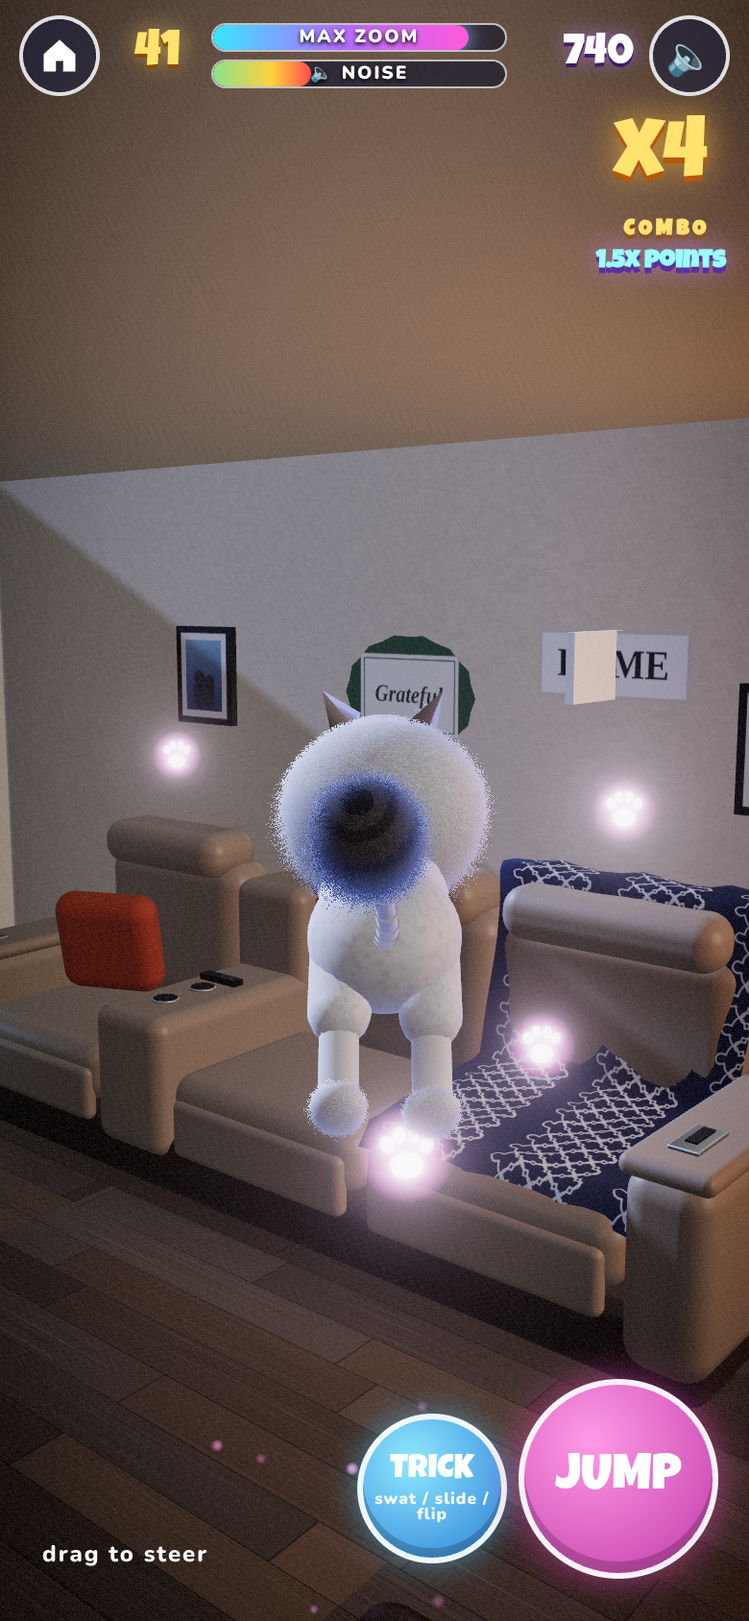
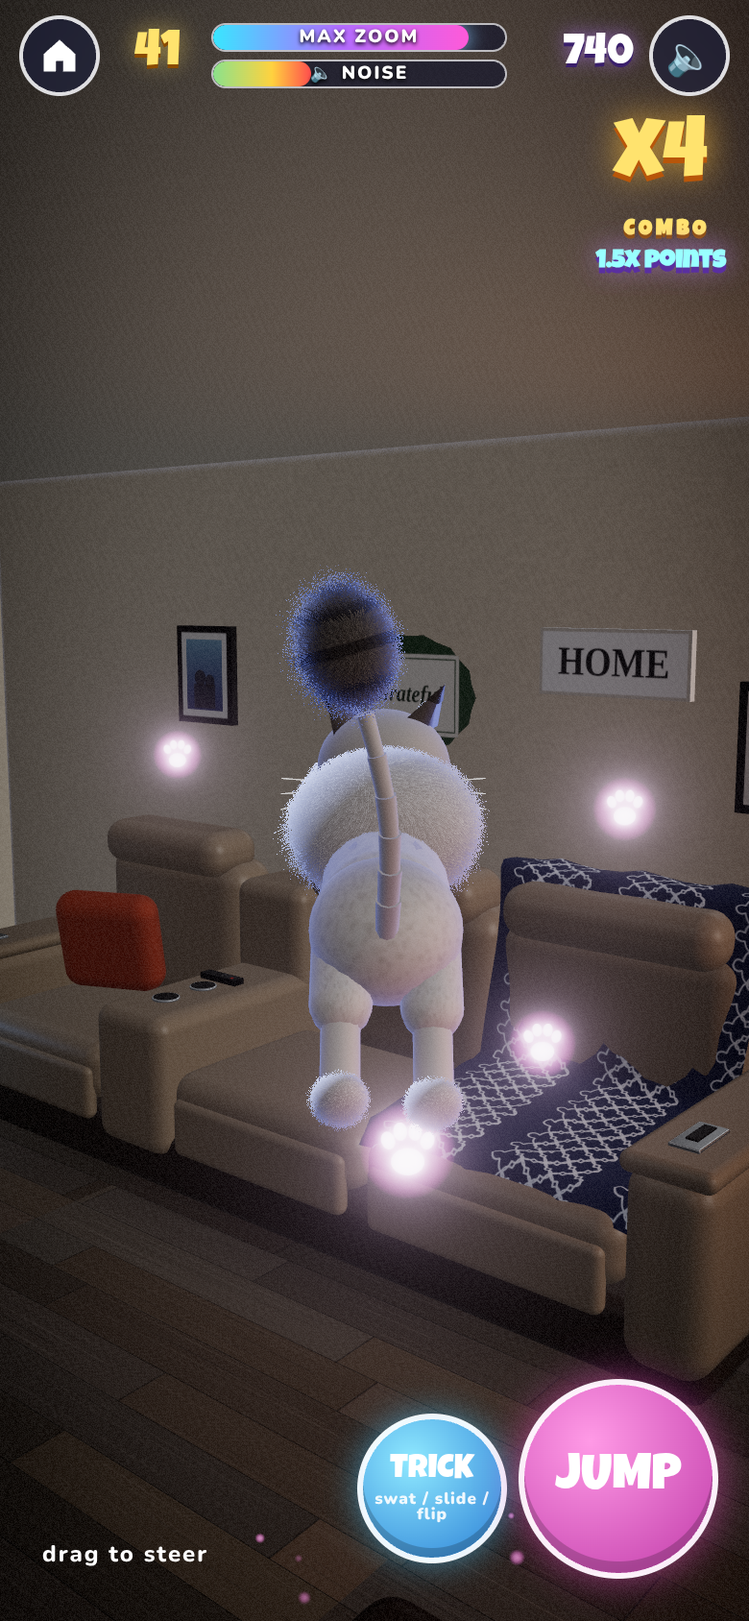
miko: house rebuilt from James's photos (split-level tiled entry, banister, front door, stairs up, TV console wall, picture wall, 3-drum lamp); abstract art only, no people

diff --git a/games/miko/js/house.js b/games/miko/js/house.js
@@ -1,12 +1,12 @@
 // MIKO - the house: living room from the photos (tan leather power recliner couch, navy quatrefoil throw,
-// burnt-orange pillow, olive tree, sage curtains, grey-brown plank floor, GRATEFUL sign), plus a hallway
-// to the bedroom (the human sleeps there) and a kitchen. Also builds the collision boxes the cat runs on.
+// burnt-orange pillow, olive tree, sage curtains, grey-brown plank floor, picture wall), a split-level tiled entry with
+// a banister, front door and stairs up to the bedroom (the human is never shown), and a kitchen. Also builds the collision boxes the cat runs on.
 import * as THREE from 'three';
 import { RoundedBoxGeometry } from 'three/addons/geometries/RoundedBoxGeometry.js';
 import * as TX from './textures.js';
 
-export const H = 2.6;   // ceiling height
-export const BOUNDS = { living: [-3, 3, -3, 3], kitchen: [-6.6, -3, -3, 3], hall: [-2.6, -1.4, 3, 8.6] };
+export const H = 4.6;   // vaulted ceiling height
+export const BOUNDS = { living: [-3, 3, -3, 3], kitchen: [-6.6, -3, -3, 3], entry: [-3, 1.2, 2.8, 9] };
 
 export function buildHouse(scene, quality) {
   const G = new THREE.Group(); G.name = 'house'; scene.add(G);
@@ -27,7 +27,7 @@ export function buildHouse(scene, quality) {
   // ---------------- floor, walls, ceiling ----------------
   const floorMap = TX.woodFloor(); floorMap.repeat.set(9.6 / 1.6, 11.6 / 1.6); floorMap.rotation = Math.PI / 2;
   const floorMat = M({ map: floorMap, roughness: 0.5, metalness: 0.0, envMapIntensity: 0.6 });
-  const floor = add(new THREE.PlaneGeometry(9.6, 11.6), floorMat, -1.8, 0, 2.8, { rx: -Math.PI / 2, cast: false });
+  const floor = add(new THREE.PlaneGeometry(9.6, 12.2), floorMat, -1.8, 0, 3.1, { rx: -Math.PI / 2, cast: false });
   floor.name = 'floor';
   const wallMat = M({ color: 0xece4d5, map: TX.noiseTex(256, '#f4eee4', 10), roughness: 0.92 });
   const ceilMat = M({ color: 0xf0ebe2, roughness: 1 });
@@ -45,15 +45,16 @@ export function buildHouse(scene, quality) {
   wall(-2.4, -0.2, -3 - T, -3, 0, 0.55); wall(-2.4, -0.2, -3 - T, -3, 2.25, H, false);
   wall(-6.6, -3, -3 - T, -3);                                 // kitchen back
   wall(3, 3 + T, -3, 3);                                      // living right (couch wall)
-  wall(-3, -2.6, 3, 3 + T); wall(-1.4, 3, 3, 3 + T);          // living front, hall opening x -2.6..-1.4
-  wall(-2.6, -1.4, 3, 3 + T, 2.2, H, false);                  // header over the hall opening
+  wall(1.2, 3, 3, 3 + T);                                     // living front (lamp + narrow window)
+  wall(1.2, 1.2 + T, 3, 5.0);                                 // entry mirror wall
+  wall(-2.0, 1.2, 5.0, 5.0 + T);                              // front door wall
   wall(-6.6, -3, 3, 3 + T);                                   // kitchen front
   wall(-6.6 - T, -6.6, -3, 3);                                // kitchen far wall
   wall(-3 - T, -3, -3, -1.4); wall(-3 - T, -3, 1.4, 3);       // living/kitchen divider, opening z -1.4..1.4
   wall(-3 - T, -3, -1.4, 1.4, 2.2, H, false);
-  wall(-2.6 - T, -2.6, 3, 8.6); wall(-1.4, -1.4 + T, 3, 8.6); // hallway
-  wall(-2.6, -2.25, 8.6, 8.6 + T); wall(-1.75, -1.4, 8.6, 8.6 + T); wall(-2.25, -1.75, 8.6, 8.6 + T, 2.1, H, false);
-  const ceil = add(new THREE.BoxGeometry(9.8, 0.1, 11.8), ceilMat, -1.8, H + 0.05, 2.8, { cast: true });   // casts, so moonlight only comes in the window
+  wall(-3 - T, -3, 3, 9.0); wall(-2.0, -2.0 + T, 5.0, 9.0);   // stairwell
+  wall(-3, -2.76, 9.0, 9.0 + T); wall(-2.24, -2.0, 9.0, 9.0 + T); wall(-2.76, -2.24, 9.0, 9.0 + T, 4.34, H, false); wall(-2.76, -2.24, 9.0, 9.0 + T, 0, 2.34, false);
+  const ceil = add(new THREE.BoxGeometry(9.8, 0.1, 12.4), ceilMat, -1.8, H + 0.05, 3.1, { cast: true });   // casts, so moonlight only comes in the window
   // "baked" AO: dark gradient strips along the bottoms of the walls and ceiling corners
   const aoTex = TX.vgrad('rgba(0,0,0,0)', 'rgba(0,0,0,0.55)');
   const aoMat = new THREE.MeshBasicMaterial({ map: aoTex, transparent: true, depthWrite: false });
@@ -63,8 +64,8 @@ export function buildHouse(scene, quality) {
     const f = new THREE.Mesh(new THREE.PlaneGeometry(len, 0.4), aoMat);   // on the floor too
     f.rotation.x = -Math.PI / 2; f.rotation.z = Math.atan2(nx, nz) + Math.PI; f.position.set((x0 + x1) / 2 + nx * 0.2, 0.003, (z0 + z1) / 2 + nz * 0.2); f.renderOrder = 2; G.add(f);
   };
-  aoStrip(-3, -3, 3, -3, 0, 1); aoStrip(3, -3, 3, 3, -1, 0); aoStrip(-1.4, 3, 3, 3, 0, -1); aoStrip(-6.6, -3, -3, -3, 0, 1);
-  aoStrip(-6.6, -3, -6.6, 3, 1, 0); aoStrip(-6.6, 3, -3, 3, 0, -1); aoStrip(-2.6, 3, -2.6, 8.6, 1, 0); aoStrip(-1.4, 3, -1.4, 8.6, -1, 0);
+  aoStrip(-3, -3, 3, -3, 0, 1); aoStrip(3, -3, 3, 3, -1, 0); aoStrip(1.2, 3, 3, 3, 0, -1); aoStrip(-6.6, -3, -3, -3, 0, 1);
+  aoStrip(-6.6, -3, -6.6, 3, 1, 0); aoStrip(-6.6, 3, -3, 3, 0, -1); 
   const contact = TX.radial('rgba(0,0,0,.7)', 'rgba(0,0,0,0)');
   const blob = (x, z, w, d, op = 0.8) => { const m = new THREE.Mesh(new THREE.PlaneGeometry(w, d), new THREE.MeshBasicMaterial({ map: contact, transparent: true, depthWrite: false, opacity: op })); m.rotation.x = -Math.PI / 2; m.position.set(x, 0.004, z); m.renderOrder = 2; G.add(m); };
 
@@ -199,94 +200,183 @@ export function buildHouse(scene, quality) {
     G.add(inst);
   }
 
-  // ---------------- ottoman, rug, TV, lamp, bookshelf ----------------
+  // ---------------- ottoman, rug, TV wall, lamp, bookshelf ----------------
   add(rbox(0.75, 0.38, 0.55, 0.07, 4), M({ color: 0x3e2a1e, roughness: 0.45, bumpMap: leatherBump, bumpScale: 0.6 }), 0.38, 0.23, 1.48);
   [[0.06, 1.25], [0.7, 1.25], [0.06, 1.71], [0.7, 1.71]].forEach(([x, z]) => add(new THREE.CylinderGeometry(0.02, 0.015, 0.05, 8), woodDk, x, 0.025, z));
   box(0.0, 0.76, 0, 0.42, 1.2, 1.76, { name: 'ottoman' });
   blob(0.38, 1.48, 1.1, 0.85);
-  add(rbox(2.2, 0.015, 1.6, 0.007), M({ map: TX.rugTex(), color: 0x8a857e, roughness: 1 }), -0.9, 0.008, 0.2, { cast: false });
-  // TV stand + TV (with the standby light)
-  add(rbox(2.2, 0.5, 0.4, 0.02), M({ color: 0x2b2420, roughness: 0.55 }), 0, 0.27, 2.77);
-  [-0.55, 0.55].forEach(x => add(bx(1.0, 0.36, 0.01), M({ color: 0x3a312a, roughness: 0.5 }), x, 0.28, 2.565, { cast: false }));
-  box(-1.1, 1.1, 0, 0.55, 2.57, 2.97, { name: 'TV stand' });
-  add(bx(1.5, 0.86, 0.05), M({ color: 0x0b0b0c, roughness: 0.25, metalness: 0.4 }), 0, 1.35, 2.94);
-  const screen = add(new THREE.PlaneGeometry(1.44, 0.8), M({ color: 0x050608, roughness: 0.08, metalness: 0.2, envMapIntensity: 1.2 }), 0, 1.35, 2.914, { ry: Math.PI, cast: false });
-  box(-0.75, 0.75, 0.92, 1.78, 2.9, 2.97, { name: 'tv', walk: false });
+  // grey/beige area rug in front of the TV
+  add(rbox(2.2, 0.015, 1.5, 0.007), M({ map: TX.rugTex(), color: 0xa49c90, roughness: 1 }), -1.35, 0.008, -1.55, { cast: false });
+  // TV wall (in front of the sage curtains): white console with two glass-door cabinets glowing warm inside
+  const white = M({ color: 0xf1eee8, roughness: 0.5 });
+  add(rbox(1.8, 0.52, 0.42, 0.02), white, -1.35, 0.27, -2.59);
+  const cabGlow = M({ color: 0x2a1c12, emissive: 0xffa04a, emissiveIntensity: 1.4, roughness: 0.6 });
+  const glass = new THREE.MeshPhysicalMaterial({ color: 0xd8e6ee, roughness: 0.05, transparent: true, opacity: 0.25 });
+  const darkWood = M({ color: 0x3b2a1e, roughness: 0.5 });
+  [-1.95, -0.75].forEach(x => {
+    add(bx(0.46, 0.34, 0.01), cabGlow, x, 0.29, -2.385, { cast: false });
+    add(bx(0.5, 0.38, 0.012), glass, x, 0.29, -2.37, { cast: false });
+    [[0, 0.19], [0, -0.19]].forEach(([dx, dy]) => add(bx(0.5, 0.02, 0.02), darkWood, x + dx, 0.29 + dy, -2.365, { cast: false }));
+    [-0.25, 0, 0.25].forEach(dx => add(bx(0.02, 0.38, 0.02), darkWood, x + dx, 0.29, -2.365, { cast: false }));
+  });
+  add(bx(0.62, 0.3, 0.01), cabGlow, -1.35, 0.3, -2.4, { cast: false });
+  box(-2.25, -0.45, 0, 0.55, -2.8, -2.38, { name: 'TV stand' });
+  add(bx(1.32, 0.76, 0.05), M({ color: 0x0b0b0c, roughness: 0.25, metalness: 0.4 }), -1.35, 1.0, -2.66);
+  add(bx(0.3, 0.04, 0.18), M({ color: 0x151515 }), -1.35, 0.57, -2.66);
+  add(bx(0.06, 0.06, 0.04), M({ color: 0x151515 }), -1.35, 0.6, -2.66);
+  add(new THREE.PlaneGeometry(1.26, 0.7), M({ color: 0x050608, roughness: 0.08, metalness: 0.2, envMapIntensity: 1.2 }), -1.35, 1.0, -2.634, { cast: false });
+  box(-2.0, -0.7, 0.6, 1.38, -2.7, -2.62, { name: 'tv', walk: false });
+  add(rbox(0.7, 0.07, 0.09, 0.03), M({ color: 0x151515, roughness: 0.4 }), -1.35, 0.585, -2.48);   // soundbar
   const ledMat = new THREE.MeshBasicMaterial({ color: 0xff2a1a, toneMapped: false });
-  add(new THREE.SphereGeometry(0.008, 8, 6), ledMat, 0.68, 0.93, 2.91, { cast: false }); glow.led = ledMat;
-  blob(0, 2.75, 2.6, 0.8);
-  // candle jar on the stand (prop), soundbar
-  add(rbox(0.9, 0.08, 0.1, 0.03), M({ color: 0x151515, roughness: 0.4 }), 0, 0.56, 2.72);
-  // floor lamp (dim, warm)
-  add(new THREE.CylinderGeometry(0.16, 0.18, 0.025, 24), metalDk, 2.62, 0.013, 2.6);
-  add(new THREE.CylinderGeometry(0.012, 0.012, 1.55, 8), metalDk, 2.62, 0.8, 2.6);
-  const shadeMat = M({ color: 0xf2e6cf, roughness: 1, side: THREE.DoubleSide, emissive: 0xffb36b, emissiveIntensity: 0.5, transparent: true, opacity: 0.96 });
-  add(new THREE.CylinderGeometry(0.2, 0.26, 0.3, 28, 1, true), shadeMat, 2.62, 1.6, 2.6, { cast: false }); glow.shade = shadeMat;
-  box(2.56, 2.68, 0, 1.45, 2.54, 2.66, { name: 'lamp', walk: false });
+  add(new THREE.SphereGeometry(0.007, 8, 6), ledMat, -0.75, 0.63, -2.63, { cast: false }); glow.led = ledMat;
+  add(rbox(0.2, 0.36, 0.2, 0.02), M({ color: 0x18181a, roughness: 0.5 }), -0.3, 0.18, -2.65);   // speaker
+  box(-0.4, -0.2, 0, 0.36, -2.75, -2.55, { name: 'speaker' });
+  blob(-1.35, -2.6, 2.4, 0.8);
+  // tall floor lamp with three stacked drum shades, by the narrow window with blinds
+  add(new THREE.CylinderGeometry(0.15, 0.17, 0.025, 24), metalDk, 2.62, 0.013, 2.6);
+  add(new THREE.CylinderGeometry(0.012, 0.012, 2.0, 8), metalDk, 2.62, 1.0, 2.6);
+  const shadeMat = M({ color: 0xf2ece0, roughness: 1, side: THREE.DoubleSide, emissive: 0xffb36b, emissiveIntensity: 0.5, transparent: true, opacity: 0.96 });
+  [[2.5, 1.2, 2.5], [2.72, 1.55, 2.62], [2.52, 1.9, 2.66]].forEach(([x, y, z]) => {
+    add(new THREE.CylinderGeometry(0.16, 0.16, 0.22, 28, 1, true), shadeMat, x, y, z, { cast: false });
+    add(new THREE.CylinderGeometry(0.004, 0.004, 0.22, 4), metalDk, (x + 2.62) / 2, y + 0.16, (z + 2.6) / 2, { rz: (2.62 - x) * 2, cast: false });
+  });
+  glow.shade = shadeMat;
+  box(2.56, 2.68, 0, 1.9, 2.54, 2.66, { name: 'lamp', walk: false });
+  const blindsTex = TX.textCanvas(64, 256, (g, w, h) => { g.fillStyle = '#f6f4ef'; g.fillRect(0, 0, w, h); for (let y = 0; y < h; y += 8) { g.fillStyle = 'rgba(0,0,0,.14)'; g.fillRect(0, y, w, 2); } });
+  const blinds = (x, y, z, w, h, ry) => { add(new THREE.PlaneGeometry(w, h), M({ map: blindsTex, roughness: 0.7 }), x, y, z, { ry, cast: false }); add(bx(w + 0.06, 0.07, 0.06), white, x, y + h / 2 + 0.03, z, { ry, cast: false }); };
+  blinds(2.15, 1.55, 2.985, 0.4, 1.3, Math.PI);
   // bookshelf
   const shelfMat = M({ color: 0xf2efe8, roughness: 0.6 });
-  add(bx(0.34, 1.8, 1.05), shelfMat, -2.79, 0.9, 2.2);
+  add(bx(0.34, 1.8, 0.9), shelfMat, -2.79, 0.9, 1.9);
   const bookColors = [0x6c2f2a, 0x2e4a6b, 0xd9b45a, 0x3e5d43, 0x8a6b8f, 0xc77b4d, 0x24313d, 0xe7dccb];
   for (let s = 0; s < 4; s++) {
-    let z = 1.72; const y = 0.1 + s * 0.43;
-    add(bx(0.32, 0.02, 1.0), shelfMat, -2.77, y, 2.2, { cast: false });
-    while (z < 2.62) {
+    let z = 1.48; const y = 0.1 + s * 0.43;
+    add(bx(0.32, 0.02, 0.86), shelfMat, -2.77, y, 1.9, { cast: false });
+    while (z < 2.28) {
       const w = 0.025 + Math.random() * 0.03, h = 0.22 + Math.random() * 0.12;
       if (Math.random() < 0.12) { z += 0.08; continue; }
       add(bx(0.22, h, w), M({ color: bookColors[(Math.random() * bookColors.length) | 0], roughness: 0.8 }), -2.73, y + 0.01 + h / 2, z + w / 2, { cast: false });
       z += w + 0.004;
     }
   }
-  box(-2.97, -2.62, 0, 1.8, 1.67, 2.73, { name: 'bookshelf top' });
-  blob(-2.75, 2.2, 0.7, 1.4);
+  box(-2.97, -2.62, 0, 1.8, 1.45, 2.35, { name: 'bookshelf top' });
+  blob(-2.75, 1.9, 0.7, 1.2);
 
-  // ---------------- wall art: GRATEFUL, HOME, photo frames ----------------
-  const grateful = TX.textCanvas(512, 384, (g, w, h) => {
-    g.fillStyle = '#4b6b4a'; const r = 40;
-    g.beginPath(); for (let i = 0; i < 28; i++) { const a = i / 28 * Math.PI * 2; const rr = 1 + Math.sin(i * Math.PI) * 0; g.lineTo(w / 2 + Math.cos(a) * (w / 2 - 8) * (1 - 0.04 * (i % 2)), h / 2 + Math.sin(a) * (h / 2 - 8) * (1 - 0.04 * (i % 2))); } g.closePath(); g.fill();
-    g.fillStyle = '#f4efe2'; g.fillRect(70, 70, w - 140, h - 140);
-    g.strokeStyle = '#4b6b4a'; g.lineWidth = 4; g.strokeRect(84, 84, w - 168, h - 168);
+  // ---------------- picture wall above the couch (frames show abstract art only) ----------------
+  const artMat = (t) => M({ map: t, roughness: 0.7, transparent: true, alphaTest: 0.5 });
+  const sign = (w, h, draw) => TX.textCanvas(w, h, draw);
+  const hang = (tex, z, y, w, h, depth = 0.025) => { add(bx(depth, h, w), M({ color: 0x2a2622 }), 2.99 - depth / 2, y, z, { cast: false }); add(new THREE.PlaneGeometry(w, h), artMat(tex), 2.99 - depth - 0.001, y, z, { ry: -Math.PI / 2, cast: false }); };
+  const grateful = sign(512, 384, (g, w, h) => {
+    g.fillStyle = '#4b6b4a';
+    g.beginPath(); for (let i = 0; i < 28; i++) { const a = i / 28 * Math.PI * 2; g.lineTo(w / 2 + Math.cos(a) * (w / 2 - 8) * (1 - 0.04 * (i % 2)), h / 2 + Math.sin(a) * (h / 2 - 8) * (1 - 0.04 * (i % 2))); } g.closePath(); g.fill();
+    g.fillStyle = '#f4efe2'; g.fillRect(70, 70, w - 140, h - 140); g.strokeStyle = '#4b6b4a'; g.lineWidth = 4; g.strokeRect(84, 84, w - 168, h - 168);
     g.fillStyle = '#3c4f3b'; g.font = 'italic 700 74px Georgia, serif'; g.textAlign = 'center'; g.textBaseline = 'middle'; g.fillText('Grateful', w / 2, h / 2 + 4);
   });
-  const artMat = (t) => M({ map: t, roughness: 0.7, transparent: true, alphaTest: 0.5 });
-  add(new THREE.PlaneGeometry(0.62, 0.46), artMat(grateful), 2.985, 1.72, -0.5, { ry: -Math.PI / 2, cast: false });
-  const home = TX.textCanvas(512, 200, (g, w, h) => { g.fillStyle = '#f8f6f1'; g.fillRect(0, 0, w, h); g.strokeStyle = '#d9d2c4'; g.lineWidth = 10; g.strokeRect(5, 5, w - 10, h - 10); g.fillStyle = '#2b2b2b'; g.font = '900 120px Georgia, serif'; g.textAlign = 'center'; g.textBaseline = 'middle'; g.fillText('HOME', w / 2, h / 2 + 6); });
-  add(bx(0.03, 0.22, 0.55), M({ color: 0xf8f6f1 }), 2.98, 1.86, 0.35, { cast: false });
-  add(new THREE.PlaneGeometry(0.55, 0.22), artMat(home), 2.962, 1.86, 0.35, { ry: -Math.PI / 2, cast: false });
-  const photo = (seedHue) => TX.textCanvas(256, 320, (g, w, h) => {
+  add(new THREE.PlaneGeometry(0.32, 0.24), artMat(grateful), 2.985, 1.98, -1.42, { ry: -Math.PI / 2, cast: false });
+  const family = sign(512, 160, (g, w, h) => { g.fillStyle = '#8c8f92'; g.fillRect(0, 0, w, h); g.fillStyle = '#ece9e2'; g.fillRect(14, 14, w - 28, h - 28); g.fillStyle = '#2b2b2b'; g.font = 'italic 700 96px Georgia, serif'; g.textAlign = 'center'; g.textBaseline = 'middle'; g.fillText('Family', w / 2, h / 2 + 6); });
+  hang(family, -1.55, 2.48, 0.5, 0.16);
+  const beHappy = sign(320, 440, (g, w, h) => { g.fillStyle = '#e2b62e'; g.fillRect(0, 0, w, h); g.fillStyle = '#1f2321'; g.fillRect(22, 22, w - 44, h - 44); g.textAlign = 'center'; g.font = '700 58px "Arial Rounded MT Bold", sans-serif';
+    g.fillStyle = '#f2efe6'; g.fillText('BE HAPPY', w / 2, 120); g.fillStyle = '#f7d54a'; g.fillText('BE BRIGHT', w / 2, 210); g.fillStyle = '#f2efe6'; g.fillText('BE', w / 2 - 50, 320); g.fillStyle = '#7fc8f0'; g.fillText('YOU', w / 2 + 40, 320); });
+  hang(beHappy, -0.4, 2.3, 0.32, 0.44);
+  const moon = sign(240, 300, (g, w, h) => { g.fillStyle = '#f8f6f1'; g.fillRect(0, 0, w, h); g.strokeStyle = '#2b2b2b'; g.lineWidth = 6; g.strokeRect(6, 6, w - 12, h - 12); g.fillStyle = '#2b2b2b'; g.textAlign = 'center'; g.font = '800 40px Georgia, serif';
+    ['LOVE YOU', 'TO THE', 'MOON', '& BACK'].forEach((t, i) => g.fillText(t, w / 2, 70 + i * 60)); });
+  hang(moon, -0.78, 1.92, 0.22, 0.28);
+  const home = sign(200, 260, (g, w, h) => { g.fillStyle = '#f8f6f1'; g.fillRect(0, 0, w, h); g.fillStyle = '#6a6a6a'; g.font = 'italic 30px Georgia, serif'; g.textAlign = 'center'; g.fillText('my happy place', w / 2, 70); g.fillStyle = '#2b2b2b'; g.font = '900 64px Georgia, serif'; g.fillText('HOME', w / 2, 170); });
+  hang(home, -1.08, 1.95, 0.2, 0.26);
+  const days = sign(400, 140, (g, w, h) => { g.fillStyle = '#c9a77a'; g.fillRect(0, 0, w, h); g.fillStyle = '#3b2a1e'; g.font = 'italic 700 46px Georgia, serif'; g.textAlign = 'center'; g.textBaseline = 'middle'; g.fillText('Days to Remember', w / 2, h / 2); });
+  hang(days, 0.12, 1.86, 0.38, 0.12, 0.015);
+  for (let i = 0; i < 7; i++) add(new THREE.CylinderGeometry(0.014, 0.014, 0.004, 10), M({ color: 0xd8b98c }), 2.975, 1.74 - (i % 2) * 0.04, -0.03 + i * 0.05, { rz: Math.PI / 2, cast: false });
+  const photo = (seedHue) => TX.textCanvas(256, 320, (g, w, h) => {   // abstract art (no people)
     g.fillStyle = '#1e1a17'; g.fillRect(0, 0, w, h); g.fillStyle = '#f3efe7'; g.fillRect(22, 22, w - 44, h - 44);
-    const gr = g.createLinearGradient(0, 40, 0, h - 40); gr.addColorStop(0, `hsl(${seedHue},35%,70%)`); gr.addColorStop(1, `hsl(${seedHue + 30},30%,40%)`);
+    const gr = g.createLinearGradient(0, 40, 0, h - 40); gr.addColorStop(0, `hsl(${seedHue},45%,78%)`); gr.addColorStop(1, `hsl(${seedHue + 40},35%,55%)`);
     g.fillStyle = gr; g.fillRect(44, 44, w - 88, h - 88);
-    g.fillStyle = 'rgba(40,30,25,.55)'; g.beginPath(); g.arc(w / 2 - 20, h / 2 + 10, 26, 0, 7); g.fill(); g.beginPath(); g.arc(w / 2 + 26, h / 2 + 20, 22, 0, 7); g.fill();
-    g.fillRect(w / 2 - 50, h / 2 + 30, 100, 80);
+    g.fillStyle = `hsl(${seedHue + 180},40%,85%)`; g.beginPath(); g.arc(w * 0.66, h * 0.35, 22, 0, 7); g.fill();
+    g.fillStyle = `hsl(${seedHue + 60},30%,35%)`; g.beginPath(); g.moveTo(44, h - 44); g.quadraticCurveTo(w * 0.4, h * 0.5, w - 44, h * 0.66); g.lineTo(w - 44, h - 44); g.fill();
   });
-  [[2.985, 1.75, -1.55, 200], [2.985, 1.62, 0.95, 30]].forEach(([x, y, z, hu]) => {
-    add(bx(0.03, 0.4, 0.32), M({ color: 0x1e1a17 }), x - 0.01, y, z, { cast: false });
-    add(new THREE.PlaneGeometry(0.32, 0.4), artMat(photo(hu)), x - 0.027, y, z, { ry: -Math.PI / 2, cast: false });
-  });
+  [[-0.95, 2.42, 0.3, 0.36, 40], [0.22, 2.27, 0.32, 0.28, 200], [-1.82, 2.05, 0.15, 0.2, 120], [-0.4, 1.86, 0.2, 0.2, 300]].forEach(([z, y, w, h, hu]) => hang(photo(hu), z, y, w, h));
   [[0.3, 1.7, -2.985, 120], [1.25, 1.85, -2.985, 300]].forEach(([x, y, z, hu]) => add(new THREE.PlaneGeometry(0.3, 0.38), artMat(photo(hu)), x, y, z + 0.01, { cast: false }));
-  [[-2.585, 1.5, 4.6, 60], [-1.415, 1.55, 6.2, 260], [-2.585, 1.5, 7.4, 180]].forEach(([x, y, z, hu]) => add(new THREE.PlaneGeometry(0.34, 0.42), artMat(photo(hu)), x + (x < -2 ? 0.01 : -0.01), y, z, { ry: x < -2 ? Math.PI / 2 : -Math.PI / 2, cast: false }));
 
-  // ---------------- hallway + bedroom door ----------------
-  add(rbox(1.0, 0.012, 4.2, 0.006), M({ color: 0x5c4a5e, roughness: 1, map: TX.rugTex() }), -2.0, 0.006, 5.9, { cast: false });
-  add(rbox(0.36, 0.08, 1.2, 0.02), woodDk, -2.37, 0.44, 5.1);
-  [[-2.5, 4.6], [-2.24, 4.6], [-2.5, 5.6], [-2.24, 5.6]].forEach(([x, z]) => add(bx(0.03, 0.4, 0.03), metalDk, x, 0.2, z));
-  box(-2.56, -2.18, 0.4, 0.48, 4.5, 5.7, { name: 'hall bench' });
-  add(rbox(0.32, 0.8, 1.0, 0.02), M({ color: 0xe8e2d6, roughness: 0.6 }), -1.6, 0.4, 6.8);
-  box(-1.77, -1.43, 0, 0.8, 6.3, 7.3, { name: 'hall console' });
-  blob(-1.6, 6.8, 0.6, 1.3);
-  // bedroom door (opens when the human wakes up)
-  const doorPivot = new THREE.Group(); doorPivot.position.set(-2.24, 0, 8.6); G.add(doorPivot);
-  const door = add(bx(0.48, 2.06, 0.04), M({ color: 0xf3efe7, roughness: 0.5 }), 0.24, 1.03, 0, { parent: doorPivot });
-  add(new THREE.SphereGeometry(0.022, 10, 8), chrome, 0.42, 1.0, -0.04, { parent: doorPivot });
-  add(bx(0.58, 0.05, 0.06), frameMat, -2.0, 2.1, 8.58);
+  // ---------------- split-level entry: diagonal tile landing, steps down, banister, front door, stairs up ----------------
+  const tileTex = TX.textCanvas(512, 512, (g, w, h) => {
+    g.fillStyle = '#5a4234'; g.fillRect(0, 0, w, h);
+    g.save(); g.translate(w / 2, h / 2); g.rotate(Math.PI / 4); const s = 128;
+    for (let y = -6; y < 6; y++) for (let x = -6; x < 6; x++) { const l = 36 + Math.random() * 8; g.fillStyle = `hsl(${18 + Math.random() * 6},${30 + Math.random() * 8}%,${l}%)`; g.fillRect(x * s + 3, y * s + 3, s - 6, s - 6); }
+    g.restore();
+  });
+  tileTex.wrapS = tileTex.wrapT = THREE.RepeatWrapping; tileTex.repeat.set(2.4, 1.3);
+  const tileMat = M({ map: tileTex, roughness: 0.35, envMapIntensity: 0.8 });
+  const landingTopMat = [M({ color: 0x5a4234 }), M({ color: 0x5a4234 }), tileMat, M({ color: 0x5a4234 }), M({ color: 0x6b5040 }), M({ color: 0x6b5040 })];
+  add(bx(4.2, 0.54, 2.2), landingTopMat, -0.9, 0.27, 3.9);
+  box(-3, 1.2, 0, 0.54, 2.8, 5.0, { name: 'entry landing' });
+  // wide tiled steps down into the living room (tile treads with wood nosing)
+  [[0.18, 2.4], [0.36, 2.6]].forEach(([top, z0]) => {
+    add(bx(2.6, top, 0.2), M({ color: 0x6b4c3b, roughness: 0.4, map: tileTex }), -1.7, top / 2, z0 + 0.1);
+    add(bx(2.6, 0.025, 0.03), darkWood, -1.7, top - 0.012, z0 + 0.012, { cast: false });
+    box(-3, -0.4, 0, top, z0, z0 + 0.2, { name: 'step' });
+  });
+  add(bx(2.6, 0.025, 0.03), darkWood, -1.7, 0.54 - 0.012, 2.812, { cast: false });
+  // white spindle banister with a dark wood top rail along the landing edge (Miko can run along the rail)
+  const spN = 16, sp = new THREE.InstancedMesh(new THREE.BoxGeometry(0.03, 0.78, 0.03), white, spN); sp.castShadow = true;
+  const o3 = new THREE.Object3D(); for (let i = 0; i < spN; i++) { o3.position.set(-0.36 + i * 0.1, 0.54 + 0.39, 2.86); o3.updateMatrix(); sp.setMatrixAt(i, o3.matrix); } G.add(sp);
+  add(rbox(1.62, 0.07, 0.09, 0.02), darkWood, 0.4, 1.355, 2.86);
+  add(bx(0.09, 0.9, 0.09), white, -0.4, 0.99, 2.86); add(bx(0.09, 0.9, 0.09), white, 1.18, 0.99, 2.86);
+  box(-0.44, 1.22, 1.32, 1.39, 2.81, 2.91, { name: 'banister rail' });
+  box(-0.44, 1.22, 0.54, 1.32, 2.83, 2.89, { name: 'banister', walk: false });
+  // front door wall: dark 6-panel door, transom window, narrow window with blinds, plant in a grey pot
+  const doorWood = M({ color: 0x4a3324, roughness: 0.55 });
+  add(bx(0.92, 2.05, 0.05), doorWood, -0.75, 0.54 + 1.025, 4.97);
+  [[0.62], [1.2], [1.78]].forEach(([y]) => [-0.2, 0.2].forEach(dx => add(rbox(0.3, 0.42, 0.02, 0.01), M({ color: 0x5a3f2c, roughness: 0.5 }), -0.75 + dx, 0.54 + y, 4.94, { cast: false })));
+  add(new THREE.SphereGeometry(0.025, 10, 8), M({ color: 0x2a2a2a, metalness: 0.8, roughness: 0.3 }), -0.38, 0.54 + 1.0, 4.93);
+  add(bx(1.1, 0.4, 0.02), M({ color: 0x9fb2c4, emissive: 0x23304a, emissiveIntensity: 1, roughness: 0.1 }), -0.75, 2.95, 4.985, { cast: false });
+  add(bx(1.16, 0.46, 0.03), white, -0.75, 2.95, 4.99, { cast: false });
+  blinds(0.15, 1.6, 4.985, 0.36, 1.5, Math.PI);
+  add(new THREE.CylinderGeometry(0.17, 0.13, 0.34, 20), M({ color: 0x8c9294, roughness: 0.5 }), 0.75, 0.71, 4.65);
+  box(0.58, 0.92, 0.54, 0.88, 4.48, 4.82, { name: 'plant pot' });
+  for (let i = 0; i < 9; i++) { const st = add(new THREE.CylinderGeometry(0.006, 0.008, 0.6 + Math.random() * 0.4, 5), M({ color: 0x5b6b3a }), 0.75 + (Math.random() - 0.5) * 0.12, 1.2, 4.65 + (Math.random() - 0.5) * 0.12, { rz: (Math.random() - 0.5) * 0.4, rx: (Math.random() - 0.5) * 0.4 });
+    for (let j = 0; j < 3; j++) add(new THREE.SphereGeometry(0.05, 8, 6), M({ color: 0x4f7a3a, roughness: 0.7 }), st.position.x + (Math.random() - 0.5) * 0.2, 1.1 + Math.random() * 0.5, st.position.z + (Math.random() - 0.5) * 0.2, { cast: false }).scale.set(1, 0.25, 1.8); }
+  // mirror wall: long black-framed mirror, coat hooks with ball caps and a little Halloween witch doll
+  add(bx(0.03, 0.26, 0.85), M({ color: 0x111111 }), 1.185, 1.95, 3.9);
+  add(bx(0.01, 0.2, 0.77), M({ color: 0x9aa4ad, metalness: 1, roughness: 0.05 }), 1.168, 1.95, 3.9, { cast: false });
+  [[3.6, 0x2f4f7a], [4.05, 0x3a3a3a], [4.25, 0xc9c4ba]].forEach(([z, c]) => { const cap = add(new THREE.SphereGeometry(0.06, 14, 10, 0, Math.PI * 2, 0, Math.PI / 2), M({ color: c, roughness: 0.8 }), 1.13, 1.72, z, { rz: Math.PI / 2 }); });
+  { const dz = 3.83, x = 1.13;
+    add(new THREE.ConeGeometry(0.035, 0.08, 12), M({ color: 0x1a1a1a }), x, 1.74, dz);
+    add(new THREE.CylinderGeometry(0.05, 0.05, 0.005, 14), M({ color: 0x1a1a1a }), x, 1.7, dz);
+    add(new THREE.SphereGeometry(0.022, 10, 8), M({ color: 0xf2a65a }), x, 1.67, dz);
+    add(new THREE.CylinderGeometry(0.025, 0.035, 0.08, 10), M({ color: 0x1a1a1a }), x, 1.6, dz);
+    const stripes = TX.textCanvas(16, 64, (g) => { for (let i = 0; i < 8; i++) { g.fillStyle = i % 2 ? '#111' : '#f07f1e'; g.fillRect(0, i * 8, 16, 8); } });
+    [-0.014, 0.014].forEach(o => add(new THREE.CylinderGeometry(0.008, 0.008, 0.12, 8), M({ map: stripes }), x, 1.5, dz + o, { cast: false })); }
+  // wrought-iron chandelier with cream glass shades (off at 3 AM)
+  { const iron = M({ color: 0x151312, metalness: 0.6, roughness: 0.5 }), cx = -0.9, cz = 3.95, cy = 3.2;
+    add(new THREE.CylinderGeometry(0.006, 0.006, H - cy, 6), iron, cx, (H + cy) / 2, cz, { cast: false });
+    const shadeG = M({ color: 0xf1e3c4, roughness: 0.6, emissive: 0xffd08a, emissiveIntensity: 0.05 });
+    for (let i = 0; i < 5; i++) { const a = i / 5 * Math.PI * 2;
+      add(new THREE.TorusGeometry(0.11, 0.008, 6, 16, Math.PI), iron, cx + Math.cos(a) * 0.12, cy, cz + Math.sin(a) * 0.12, { ry: -a, cast: false });
+      add(new THREE.CylinderGeometry(0.035, 0.055, 0.08, 12, 1, true), shadeG, cx + Math.cos(a) * 0.23, cy + 0.06, cz + Math.sin(a) * 0.23, { cast: false }); } }
+  // carpeted stairs UP (beige speckled carpet, wood handrail on the wall) to the upper landing + bedroom door
+  const carpet = M({ map: TX.noiseTex(128, '#b9a88f', 70), roughness: 1 });
+  for (let i = 0; i < 10; i++) {
+    const z0 = 5.0 + i * 0.28, top = 0.54 + (i + 1) * 0.18;
+    add(bx(1.0, 0.18, 0.28), carpet, -2.5, top - 0.09, z0 + 0.14);
+    add(bx(1.0, top - 0.18, 0.28), M({ color: 0xece5d8 }), -2.5, (top - 0.18) / 2, z0 + 0.14, { cast: false });
+    box(-3, -2.0, 0, top, z0, z0 + 0.28, { name: 'stairs' });
+  }
+  add(bx(1.0, 0.1, 1.2), carpet, -2.5, 2.29, 8.4); add(bx(1.0, 2.24, 1.2), M({ color: 0xece5d8 }), -2.5, 1.12, 8.4, { cast: false });
+  box(-3, -2.0, 0, 2.34, 7.8, 9.0, { name: 'upper landing' });
+  { const len = Math.hypot(2.8, 1.8), rail = add(new THREE.CylinderGeometry(0.02, 0.02, len, 8), darkWood, -2.95, 0.54 + 0.9 + 0.9, 6.4, { cast: false }); rail.rotation.x = Math.atan2(2.8, 1.8); }
+  // bedroom door at the top of the stairs (its light flicks on when the human wakes up - off screen)
+  const DY = 2.34;
+  const doorPivot = new THREE.Group(); doorPivot.position.set(-2.74, DY, 8.99); G.add(doorPivot);
+  add(bx(0.48, 1.96, 0.04), M({ color: 0xf3efe7, roughness: 0.5 }), 0.24, 0.98, 0, { parent: doorPivot });
+  add(new THREE.SphereGeometry(0.022, 10, 8), chrome, 0.42, 0.95, -0.04, { parent: doorPivot });
+  add(bx(0.58, 0.05, 0.06), frameMat, -2.5, DY + 2.0, 8.97);
   const roomLight = new THREE.MeshBasicMaterial({ color: 0xffc27a, toneMapped: false });
-  const roomGlow = add(new THREE.PlaneGeometry(0.5, 2.08), roomLight, -2.0, 1.04, 8.75, { ry: Math.PI, cast: false, recv: false });
+  const roomGlow = add(new THREE.PlaneGeometry(0.5, 1.98), roomLight, -2.5, DY + 0.99, 9.12, { ry: Math.PI, cast: false, recv: false });
   roomGlow.visible = false;
   const crack = new THREE.MeshBasicMaterial({ color: 0xffc27a, toneMapped: false, transparent: true, opacity: 0 });
-  add(new THREE.PlaneGeometry(0.5, 0.025), crack, -2.0, 0.012, 8.57, { rx: -Math.PI / 2 + 0.0, cast: false, recv: false });
+  add(new THREE.PlaneGeometry(0.5, 0.025), crack, -2.5, DY + 0.012, 8.96, { rx: -Math.PI / 2, cast: false, recv: false });
   glow.door = { pivot: doorPivot, roomGlow, crack };
-  box(-2.25, -1.75, 0, 2.1, 8.5, 8.62, { name: 'door', type: 'wall', walk: false });
+  box(-2.76, -2.24, DY, DY + 2.0, 8.9, 9.02, { name: 'door', type: 'wall', walk: false });
+
 
   // ---------------- kitchen ----------------
   const cabMat = M({ color: 0xefe9de, roughness: 0.55 }), topMat = M({ map: TX.quartz(), roughness: 0.25, envMapIntensity: 1.0 });
@@ -329,10 +419,10 @@ export function buildHouse(scene, quality) {
   props.push({ kind: 'mug', pos: [-4.4, 0.92, 0.45], color: 0x2e5a87 });
   props.push({ kind: 'glass', pos: [-4.6, 0.92, -0.4] });
   props.push({ kind: 'orange', pos: [-6.18, 0.95, 0.6] }, { kind: 'orange', pos: [-6.12, 0.95, 0.72] }, { kind: 'orange', pos: [-6.25, 0.95, 0.75] });
-  props.push({ kind: 'candle', pos: [0.75, 0.55, 2.74] });
-  props.push({ kind: 'book', pos: [-2.78, 1.8, 2.3] });
-  props.push({ kind: 'keys', pos: [-1.6, 0.8, 6.6] });
-  props.push({ kind: 'vase', pos: [-1.6, 0.8, 7.05] });
+  props.push({ kind: 'candle', pos: [-0.62, 0.55, -2.5] });
+  props.push({ kind: 'vase', pos: [-2.1, 0.55, -2.5] });
+  props.push({ kind: 'book', pos: [-2.78, 1.8, 1.95] });
+  props.push({ kind: 'keys', pos: [-2.45, 2.34, 8.3] });
   props.push({ kind: 'tumbler', pos: [-6.2, 0.92, 1.3], mat: M({ color: 0xe7a0b6, metalness: 0.3, roughness: 0.35 }) });
 
   // ---------------- lights ----------------
@@ -341,14 +431,14 @@ export function buildHouse(scene, quality) {
   L.moon = new THREE.DirectionalLight(0xa9c0ff, 2.4);
   L.moon.position.set(-2.2, 5.2, -9.5); L.moon.target.position.set(-1.0, 0, 0.5); scene.add(L.moon); scene.add(L.moon.target);
   L.moon.castShadow = true; L.moon.shadow.bias = -0.0004; L.moon.shadow.normalBias = 0.02; L.moon.shadow.radius = 4; L.moon.shadow.blurSamples = 12;
-  const sc = L.moon.shadow.camera; sc.left = -6; sc.right = 6; sc.top = 7; sc.bottom = -7; sc.near = 1; sc.far = 25;
+  const sc = L.moon.shadow.camera; sc.left = -8; sc.right = 8; sc.top = 9; sc.bottom = -9; sc.far = 30; sc.near = 1; sc.far = 25;
   L.lamp = new THREE.PointLight(0xffa860, 1.3, 4.5, 1.8); L.lamp.position.set(2.62, 1.55, 2.6); scene.add(L.lamp);
   L.tv = new THREE.PointLight(0xff3020, 0.9, 2.2, 2); L.tv.position.set(0.68, 0.9, 2.8); scene.add(L.tv);
   L.phone = new THREE.PointLight(0x9cc8ff, 0.0, 1.6, 2); L.phone.position.set(1.52, 0.72, -2.38); scene.add(L.phone);
   L.clock = new THREE.PointLight(0x3dff7a, 0.35, 1.5, 2); L.clock.position.set(-6.0, 1.15, -2.1); scene.add(L.clock);
-  L.night = new THREE.PointLight(0xffc98a, 0.45, 2.6, 2); L.night.position.set(-1.8, 0.35, 4.4); scene.add(L.night);    // hallway plug-in nightlight
-  add(new THREE.SphereGeometry(0.03, 10, 8), new THREE.MeshBasicMaterial({ color: 0xb89a70, toneMapped: false }), -1.44, 0.3, 4.4, { cast: false });
-  L.door = new THREE.SpotLight(0xffc27a, 0, 12, 0.7, 0.6, 1.2); L.door.position.set(-2.0, 1.9, 8.5); L.door.target.position.set(-2.0, 0, 3.0); scene.add(L.door); scene.add(L.door.target);
+  L.night = new THREE.PointLight(0xffc98a, 0.45, 2.6, 2); L.night.position.set(0.95, 0.85, 3.7); scene.add(L.night);    // hallway plug-in nightlight
+  add(new THREE.SphereGeometry(0.03, 10, 8), new THREE.MeshBasicMaterial({ color: 0xb89a70, toneMapped: false }), 1.17, 0.85, 3.7, { cast: false });
+  L.door = new THREE.SpotLight(0xffc27a, 0, 12, 0.7, 0.6, 1.2); L.door.position.set(-2.5, 4.2, 8.9); L.door.target.position.set(-2.3, 0.5, 4.2); scene.add(L.door); scene.add(L.door.target);
   L.sun = new THREE.HemisphereLight(0xfff4e0, 0x8a7560, 0);
   L.sun.intensity = 0; scene.add(L.sun);
   if (quality === 'low') { L.clock.visible = false; L.night.intensity = 0.4; }
@@ -375,14 +465,14 @@ export const PAW_LINES = [
   [[-0.6, 0.3, 0.6], [0.0, 0.5, 1.1], [0.38, 0.75, 1.48], [1.2, 0.95, 0.9], [2.35, 0.8, 0.5], [2.8, 1.45, 0.5], [2.8, 1.45, -0.4], [2.8, 1.45, -1.55]],
   // side table + olive pot hop
   [[1.9, 0.5, -1.9], [1.58, 0.9, -2.52], [1.15, 1.0, -2.6], [0.75, 0.8, -2.55]],
-  // curtain climb
-  [[-2.2, 0.6, -2.6], [-2.2, 1.1, -2.62], [-2.2, 1.6, -2.62], [-2.2, 2.05, -2.62]],
-  // TV stand run
-  [[-0.9, 0.85, 2.77], [-0.3, 0.85, 2.77], [0.3, 0.85, 2.77], [0.9, 0.85, 2.77]],
+  // curtain climb (left of the TV)
+  [[-2.62, 0.6, -2.6], [-2.62, 1.1, -2.62], [-2.62, 1.6, -2.62], [-2.62, 2.05, -2.62]],
+  // TV console run
+  [[-2.0, 0.85, -2.58], [-1.35, 0.85, -2.5], [-0.7, 0.85, -2.58]],
   // bookshelf top
-  [[-2.3, 1.2, 2.2], [-2.78, 2.1, 2.2]],
-  // hallway sprint + bench
-  [[-2.0, 0.3, 3.6], [-2.0, 0.3, 4.2], [-2.37, 0.78, 4.8], [-2.37, 0.78, 5.4], [-2.0, 0.3, 6.1], [-1.6, 1.1, 6.8], [-2.0, 0.3, 7.7]],
+  [[-2.3, 1.2, 1.9], [-2.78, 2.1, 1.9]],
+  // up the steps, along the banister rail, up the stairs
+  [[-1.7, 0.45, 2.5], [-1.7, 0.85, 3.3], [-0.5, 1.2, 3.6], [0.1, 1.7, 2.86], [0.8, 1.7, 2.86], [-2.5, 1.35, 5.6], [-2.5, 1.9, 6.6], [-2.5, 2.45, 7.4], [-2.5, 2.7, 8.4]],
   // kitchen counter run to the fridge
   [[-4.55, 1.25, -0.6], [-4.55, 1.25, 0.6], [-5.5, 1.4, 0.0], [-6.27, 1.22, -1.2], [-6.27, 1.22, -0.2], [-6.27, 1.22, 0.8], [-6.27, 1.22, 1.6], [-6.22, 2.15, 2.47]],
 ];

diff --git a/games/miko/js/main.js b/games/miko/js/main.js
@@ -385,18 +385,18 @@ if (SHOT) {
       }
       case 'wallrun': {
         zoom.startCountdown(); await wait(140);
-        ctrl.reset(new THREE.Vector3(-2.2, 0, -1.6), Math.PI); ctrl.momentum = 1; S.zoom = 45; S.noise = 20; S.time = 33.4;
+        ctrl.reset(new THREE.Vector3(-2.62, 0, -1.6), Math.PI); ctrl.momentum = 1; S.zoom = 45; S.noise = 20; S.time = 33.4;
         for (let i = 0; i < 80 && !(ctrl.mode === 'climb' && ctrl.pos.y > 0.95); i++) await wait(1);
         timeScale = 0; break;
       }
       case 'maxzoom': {
         zoom.startCountdown(); await wait(140);
-        ctrl.reset(new THREE.Vector3(-2.0, 0, 3.3), 0.0); ctrl.momentum = 2; S.zoom = 100; S.combo = 7; S.score = 4810; S.time = 22.7; ui.comboPop(7, 4);
+        ctrl.reset(new THREE.Vector3(-1.6, 0, -0.6), 0.0); ctrl.momentum = 2; S.zoom = 100; S.combo = 7; S.score = 4810; S.time = 22.7; ui.comboPop(7, 4);
         await wait(36); timeScale = 0; break;
       }
       case 'freeze': {
         zoom.startCountdown(); await wait(140);
-        ctrl.reset(new THREE.Vector3(-2.0, 0, 4.4), 0.0); S.score = 3120; S.time = 28.0; await wait(20);
+        ctrl.reset(new THREE.Vector3(-2.5, 0.54, 4.2), 0.0); S.score = 3120; S.time = 28.0; await wait(20);
         S.noise = 100; S.alertCd = 0; await wait(30); input.st.loaf = true; await wait(112); timeScale = 0; break;
       }
       case 'end': {

diff --git a/games/miko/js/zoomies.js b/games/miko/js/zoomies.js
@@ -9,7 +9,7 @@ const SURF = {
   'recliner seat': 'RECLINER', 'couch seat': 'COUCH', blanket: 'BLANKET', 'couch back': 'COUCH BACK', headrest: 'RECLINER HEADREST',
   console: 'CUPHOLDER CONSOLE', armrest: 'ARMREST', 'side table': 'SIDE TABLE', 'olive pot': 'OLIVE TREE POT', ottoman: 'OTTOMAN',
   'TV stand': 'TV STAND', 'bookshelf top': 'BOOKSHELF TOP', 'hall bench': 'HALL BENCH', 'hall console': 'HALL TABLE',
-  'kitchen counter': 'KITCHEN COUNTER', 'cabinet top': 'TOP OF THE CABINETS!', 'fridge top': 'FRIDGE TOP!', 'kitchen island': 'KITCHEN ISLAND',
+  'kitchen counter': 'KITCHEN COUNTER', 'entry landing': 'ENTRY LANDING', stairs: 'STAIRS', 'upper landing': 'TOP OF THE STAIRS!', 'banister rail': 'BANISTER RAIL!', 'plant pot': 'PLANT POT', speaker: 'SPEAKER', 'cabinet top': 'TOP OF THE CABINETS!', 'fridge top': 'FRIDGE TOP!', 'kitchen island': 'KITCHEN ISLAND',
 };
 const PROP_NAME = { tumbler: 'TUMBLER', bowl: 'BOWL', phone: 'PHONE', remote: 'REMOTE', mug: 'MUG', glass: 'GLASS', orange: 'ORANGE', candle: 'CANDLE', book: 'BOOK', keys: 'KEYS', vase: 'VASE' };
 const KEY = 'lucasArcade.miko.zoomies.v1';

diff --git a/games/miko/js/controller.js b/games/miko/js/controller.js
@@ -3,7 +3,7 @@
 import * as THREE from 'three';
 import { H } from './house.js';
 
-const G = 14, R = 0.15, STEP = 0.12;
+const G = 14, R = 0.15, STEP = 0.2;
 const V = new THREE.Vector3();
 
 export class CatController {
